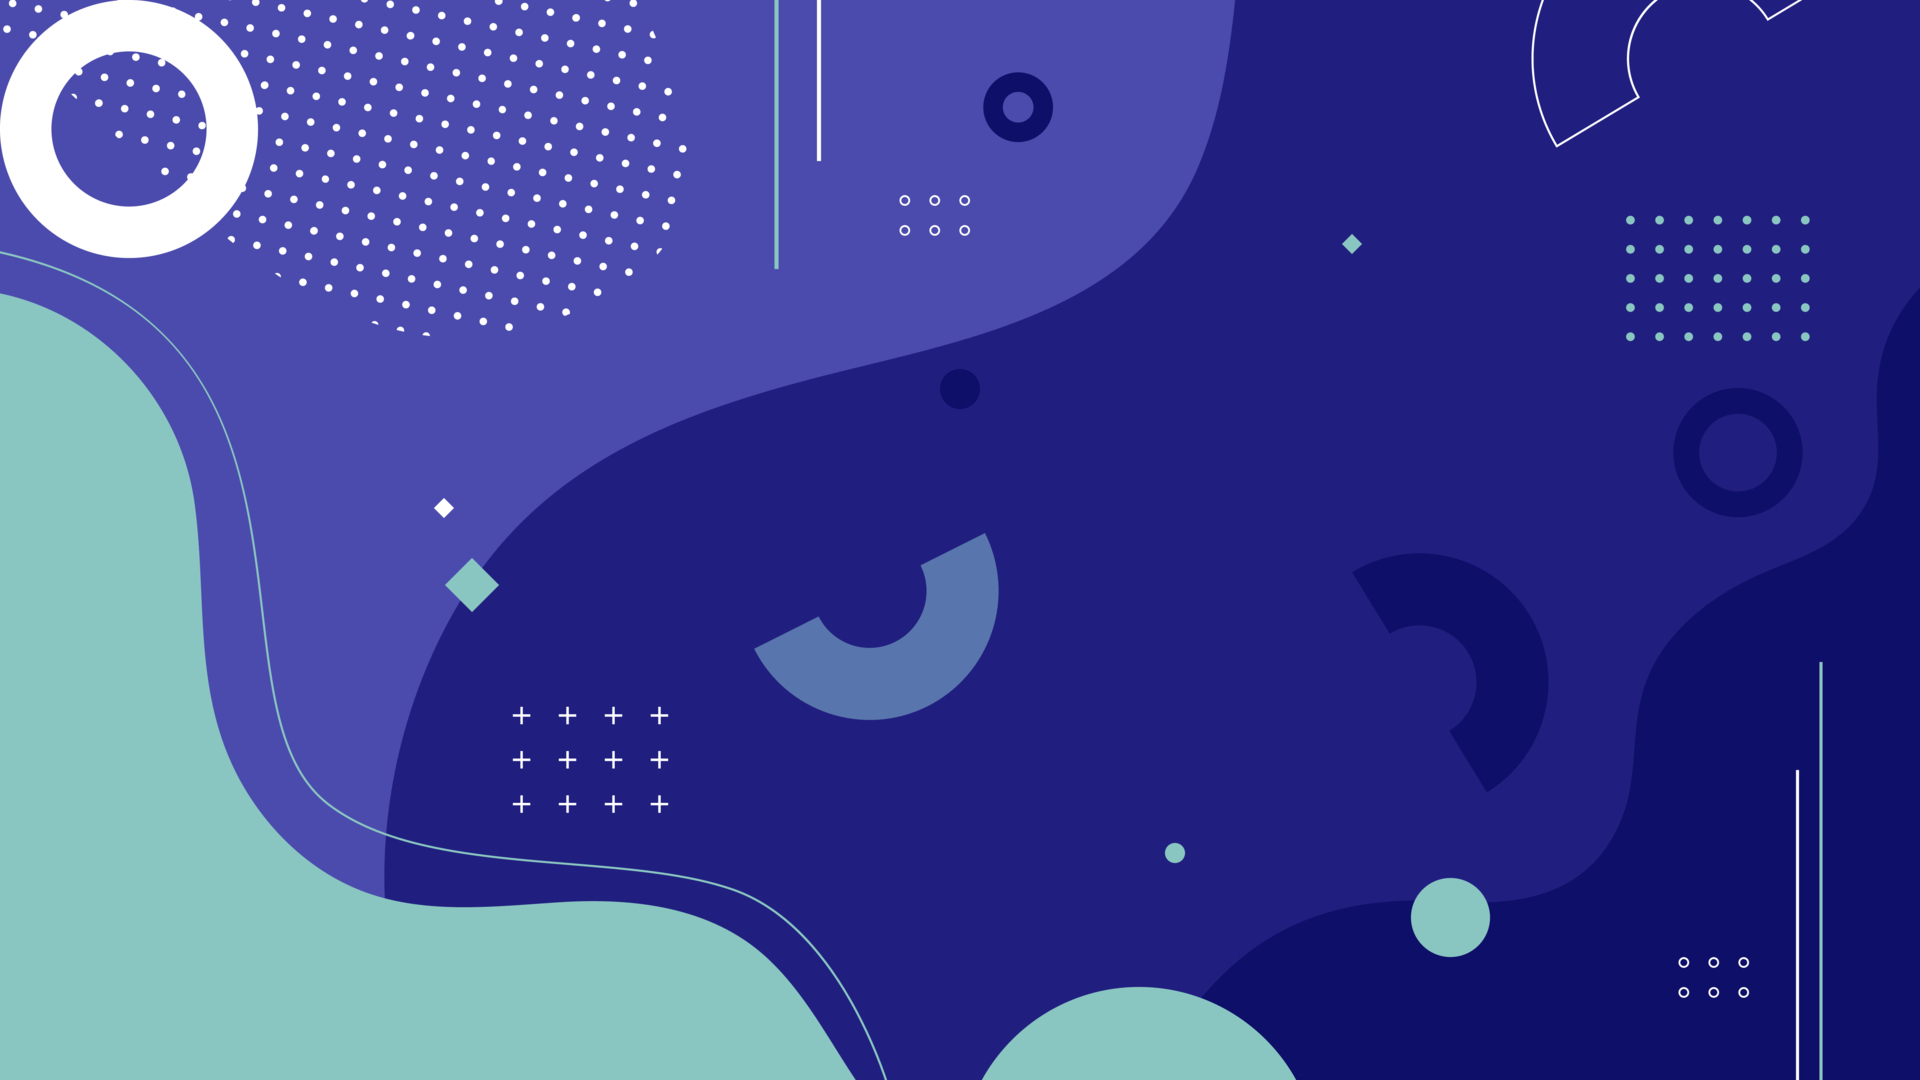
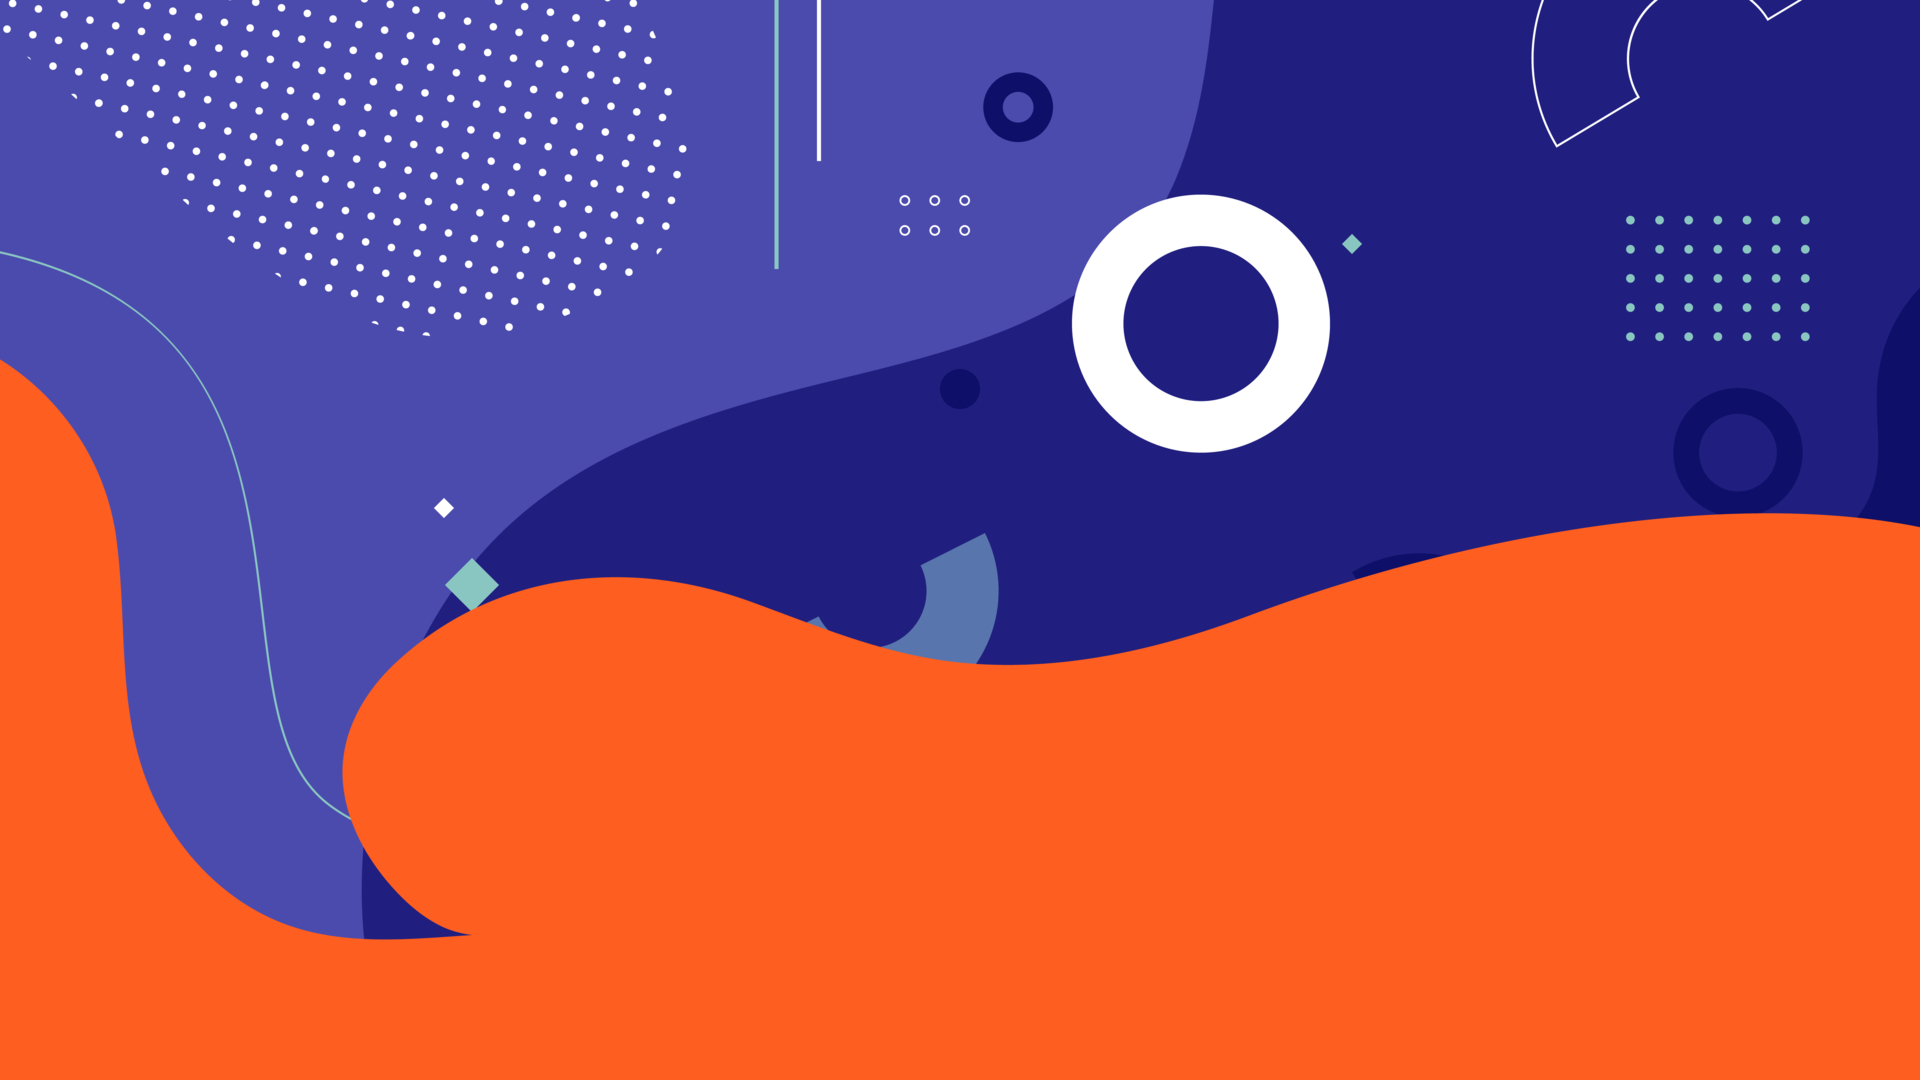
minor

diff --git a/src/pages/home/Home.js b/src/pages/home/Home.js
@@ -3,10 +3,12 @@ import Hero from '../../components/home/Hero';
 import HomeLanding from '../../components/home/HomeLanding';
 
 const Home = () => {
+  /*<svg xmlns="http://www.w3.org/2000/svg" viewBox="0 0 1440 320">
+  <path fill="#fe5e1f" fill-opacity="1" d="M0,192L18.5,170.7C36.9,149,74,107,111,101.3C147.7,96,185,128,222,133.3C258.5,139,295,117,332,101.3C369.2,85,406,75,443,96C480,117,517,171,554,186.7C590.8,203,628,181,665,160C701.5,139,738,117,775,138.7C812.3,160,849,224,886,229.3C923.1,235,960,181,997,165.3C1033.8,149,1071,171,1108,154.7C1144.6,139,1182,85,1218,80C1255.4,75,1292,117,1329,149.3C1366.2,181,1403,203,1422,213.3L1440,224L1440,0L1421.5,0C1403.1,0,1366,0,1329,0C1292.3,0,1255,0,1218,0C1181.5,0,1145,0,1108,0C1070.8,0,1034,0,997,0C960,0,923,0,886,0C849.2,0,812,0,775,0C738.5,0,702,0,665,0C627.7,0,591,0,554,0C516.9,0,480,0,443,0C406.2,0,369,0,332,0C295.4,0,258,0,222,0C184.6,0,148,0,111,0C73.8,0,37,0,18,0L0,0Z"></path>
+</svg>*/
   return (
     <>
     <Hero />
-    <svg xmlns="http://www.w3.org/2000/svg" viewBox="0 0 1440 320"><path fill="#75a9a4" fill-opacity="1" d="M0,224L48,202.7C96,181,192,139,288,117.3C384,96,480,96,576,90.7C672,85,768,75,864,106.7C960,139,1056,213,1152,229.3C1248,245,1344,203,1392,181.3L1440,160L1440,0L1392,0C1344,0,1248,0,1152,0C1056,0,960,0,864,0C768,0,672,0,576,0C480,0,384,0,288,0C192,0,96,0,48,0L0,0Z"></path></svg>
     <HomeLanding />
     </>
   )

diff --git a/src/components/home/HomeLanding.js b/src/components/home/HomeLanding.js
@@ -1,5 +1,5 @@
 import React from 'react';
-
+import { Link } from '@reach/router';
 import './HomeLanding.css';
 import addSimcard from './images/add-simcard.svg';
 import choose from './images/choose.svg';
@@ -12,12 +12,14 @@ const HomeLanding = () => {
         <div className="intro-box">
             <img src={addSimcard} alt="Add SIM card" className="intro-box-img"/>
             <div className="intro-box-text">
-                <h2>Add SIM</h2>
+                <h3>Add SIM</h3>
+                <p className="intro-box-para">Add you SIM number in order to<br/>purchase a data pacakge<br/><Link to="/add-sim">Add SIM</Link></p>
             </div>
         </div>
         <div className="intro-box">
         <div className="intro-box-text">
-                <h2>Select Desired Region and Country</h2>
+                <h3>Select Desired Region and Country</h3>
+                <p className="intro-box-para">After adding you SIM number <br/> go to <Link to="/store">Store</Link> page where you can select you region </p>
             </div>
             <img src={destination} alt="Destination" className="intro-box-img"/>
         </div>

diff --git a/src/components/home/Hero.css b/src/components/home/Hero.css
@@ -1,8 +1,7 @@
 #hero {
   width: 100%;
   height: 100vh;
-  background: linear-gradient(rgba(0, 0, 0, 0.5), rgba(0, 0, 0, 0.1)),
-    url("../../assets/abs.jpg");
+  background-image:url("../../assets/abs.jpg");
   background-size: cover;
   background-position: center center;
   padding: 2rem;
@@ -15,7 +14,16 @@ background: linear-gradient(rgba(0, 0, 0, 0.5), rgba(0, 0, 0, 0.1)),
   background-size: cover;
   background-position: center center;
   background-color: #133C55;
+    -ms-transform: skewY(20deg); 
+    transform: skewY(-10deg)
   */
+#skewed {
+    width: 100%;
+    height: 100px;
+    background-color: #fe5e20;
+    -ms-transform: skewY(-50deg); 
+    transform: skewY(-5deg) translateY(-90px);
+}
 #speedtest {
     width: 200px;
     position: absolute;

diff --git a/src/components/home/Hero.js b/src/components/home/Hero.js
@@ -7,7 +7,8 @@ import './Hero.css';
 
 
 const Hero = () => {
-    return <section id="hero">
+    return <>
+    <section id="hero">
         <img src={speedTest} alt="speed test" id="speedtest" />
         <div className="hero-items">
         <div className="hero-content">
@@ -34,5 +35,7 @@ const Hero = () => {
       </div>
         </div>
     </section>
+    <div id="skewed"></div>
+    </>
 };
 export default Hero;

diff --git a/src/pages/selectedPackage/SelectedPackage.css b/src/pages/selectedPackage/SelectedPackage.css
@@ -73,6 +73,7 @@
 .package-description{
     width: 100%;
     max-width: 350px;
+    text-align: left;
 }
 #total-cost {
     color: #3f51b5;
@@ -128,6 +129,7 @@
     flex-direction: column;
     justify-content: center;
     align-items: center;
+    text-align: left;
 }
 @media only screen and (min-width: 900px) {
     .package-content {

diff --git a/src/components/home/HomeLanding.css b/src/components/home/HomeLanding.css
@@ -1,7 +1,6 @@
 .home-intro-section {
     width: 100%;
     min-height: 80vh;
-    padding: 13px;
 }
 .intro-box {
     width: 70%;
@@ -14,6 +13,9 @@
 }
 .intro-box-img {
     width: 200px;
+}
+.intro-box-para {
+    font-size: 1.2rem;
 }
 @media only screen and (min-width: 500px){
     .intro-box {

diff --git a/src/components/store/SelectRegion.js b/src/components/store/SelectRegion.js
@@ -13,7 +13,8 @@ import Select from '@material-ui/core/Select';
 const useStyles = makeStyles((theme) => ({
   formControl: {
     margin: theme.spacing(1),
-    minWidth: 230,
+    width:'40%',
+    minWidth: 270,
   },
   selectEmpty: {
     marginTop: theme.spacing(2),
